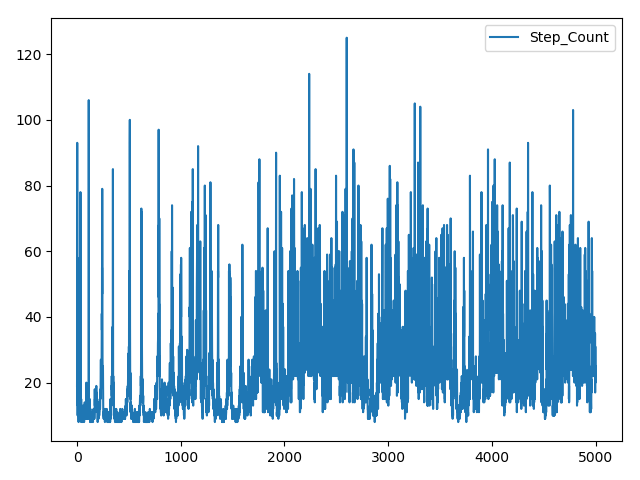
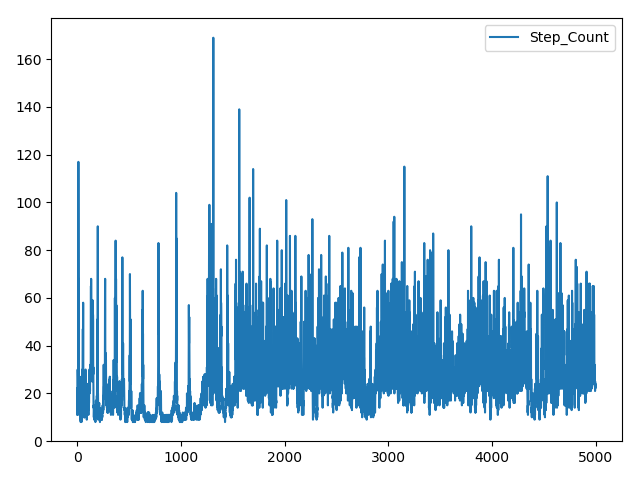
[19-02-26] :: Assign 'state' to 'next_state' in test code - Assign 'state' to 'next_state' in test code

diff --git a/src/05_Q_network/05_2_q_net_cartpole.py b/src/05_Q_network/05_2_q_net_cartpole.py
@@ -112,6 +112,7 @@ with tf.Session() as sess:
 
         next_state, reward, done, info = env.step(action)
 
+        state = next_state
         reward_total += reward
 
         if done:
@@ -125,56 +126,56 @@ plt.show()
 
 """
 Training started ...
-0 th episode finished with steps : 19
-100 th episode finished with steps : 9
-200 th episode finished with steps : 9
-300 th episode finished with steps : 11
-400 th episode finished with steps : 10
-500 th episode finished with steps : 31
+0 th episode finished with steps : 22
+100 th episode finished with steps : 16
+200 th episode finished with steps : 15
+300 th episode finished with steps : 14
+400 th episode finished with steps : 24
+500 th episode finished with steps : 17
 600 th episode finished with steps : 12
-700 th episode finished with steps : 10
-800 th episode finished with steps : 15
-900 th episode finished with steps : 25
-1000 th episode finished with steps : 40
-1100 th episode finished with steps : 30
+700 th episode finished with steps : 9
+800 th episode finished with steps : 12
+900 th episode finished with steps : 11
+1000 th episode finished with steps : 10
+1100 th episode finished with steps : 9
 1200 th episode finished with steps : 17
-1300 th episode finished with steps : 46
-1400 th episode finished with steps : 9
-1500 th episode finished with steps : 11
-1600 th episode finished with steps : 15
-1700 th episode finished with steps : 16
-1800 th episode finished with steps : 11
-1900 th episode finished with steps : 23
-2000 th episode finished with steps : 13
-2100 th episode finished with steps : 27
-2200 th episode finished with steps : 38
-2300 th episode finished with steps : 85
-2400 th episode finished with steps : 27
-2500 th episode finished with steps : 26
-2600 th episode finished with steps : 125
-2700 th episode finished with steps : 29
-2800 th episode finished with steps : 21
-2900 th episode finished with steps : 13
-3000 th episode finished with steps : 14
-3100 th episode finished with steps : 23
-3200 th episode finished with steps : 24
-3300 th episode finished with steps : 63
-3400 th episode finished with steps : 28
-3500 th episode finished with steps : 25
-3600 th episode finished with steps : 18
-3700 th episode finished with steps : 17
-3800 th episode finished with steps : 38
-3900 th episode finished with steps : 44
-4000 th episode finished with steps : 38
-4100 th episode finished with steps : 57
-4200 th episode finished with steps : 21
-4300 th episode finished with steps : 17
-4400 th episode finished with steps : 14
-4500 th episode finished with steps : 12
-4600 th episode finished with steps : 10
-4700 th episode finished with steps : 25
-4800 th episode finished with steps : 26
-4900 th episode finished with steps : 24
+1300 th episode finished with steps : 40
+1400 th episode finished with steps : 14
+1500 th episode finished with steps : 24
+1600 th episode finished with steps : 28
+1700 th episode finished with steps : 23
+1800 th episode finished with steps : 30
+1900 th episode finished with steps : 16
+2000 th episode finished with steps : 31
+2100 th episode finished with steps : 42
+2200 th episode finished with steps : 23
+2300 th episode finished with steps : 21
+2400 th episode finished with steps : 38
+2500 th episode finished with steps : 14
+2600 th episode finished with steps : 25
+2700 th episode finished with steps : 32
+2800 th episode finished with steps : 15
+2900 th episode finished with steps : 41
+3000 th episode finished with steps : 58
+3100 th episode finished with steps : 43
+3200 th episode finished with steps : 27
+3300 th episode finished with steps : 31
+3400 th episode finished with steps : 14
+3500 th episode finished with steps : 33
+3600 th episode finished with steps : 25
+3700 th episode finished with steps : 23
+3800 th episode finished with steps : 90
+3900 th episode finished with steps : 33
+4000 th episode finished with steps : 24
+4100 th episode finished with steps : 15
+4200 th episode finished with steps : 22
+4300 th episode finished with steps : 38
+4400 th episode finished with steps : 11
+4500 th episode finished with steps : 19
+4600 th episode finished with steps : 27
+4700 th episode finished with steps : 15
+4800 th episode finished with steps : 15
+4900 th episode finished with steps : 16
 
-Testing finished with total reward : 9.0
+Testing finished with total reward : 45.0
 """

diff --git a/src/05_Q_network/05_0_cartpole_test.py b/src/05_Q_network/05_0_cartpole_test.py
@@ -23,6 +23,7 @@ while current_episode < 10:
 
     print(next_state, reward, done)
 
+    state = next_state
     reward_total += reward
 
     if done:
